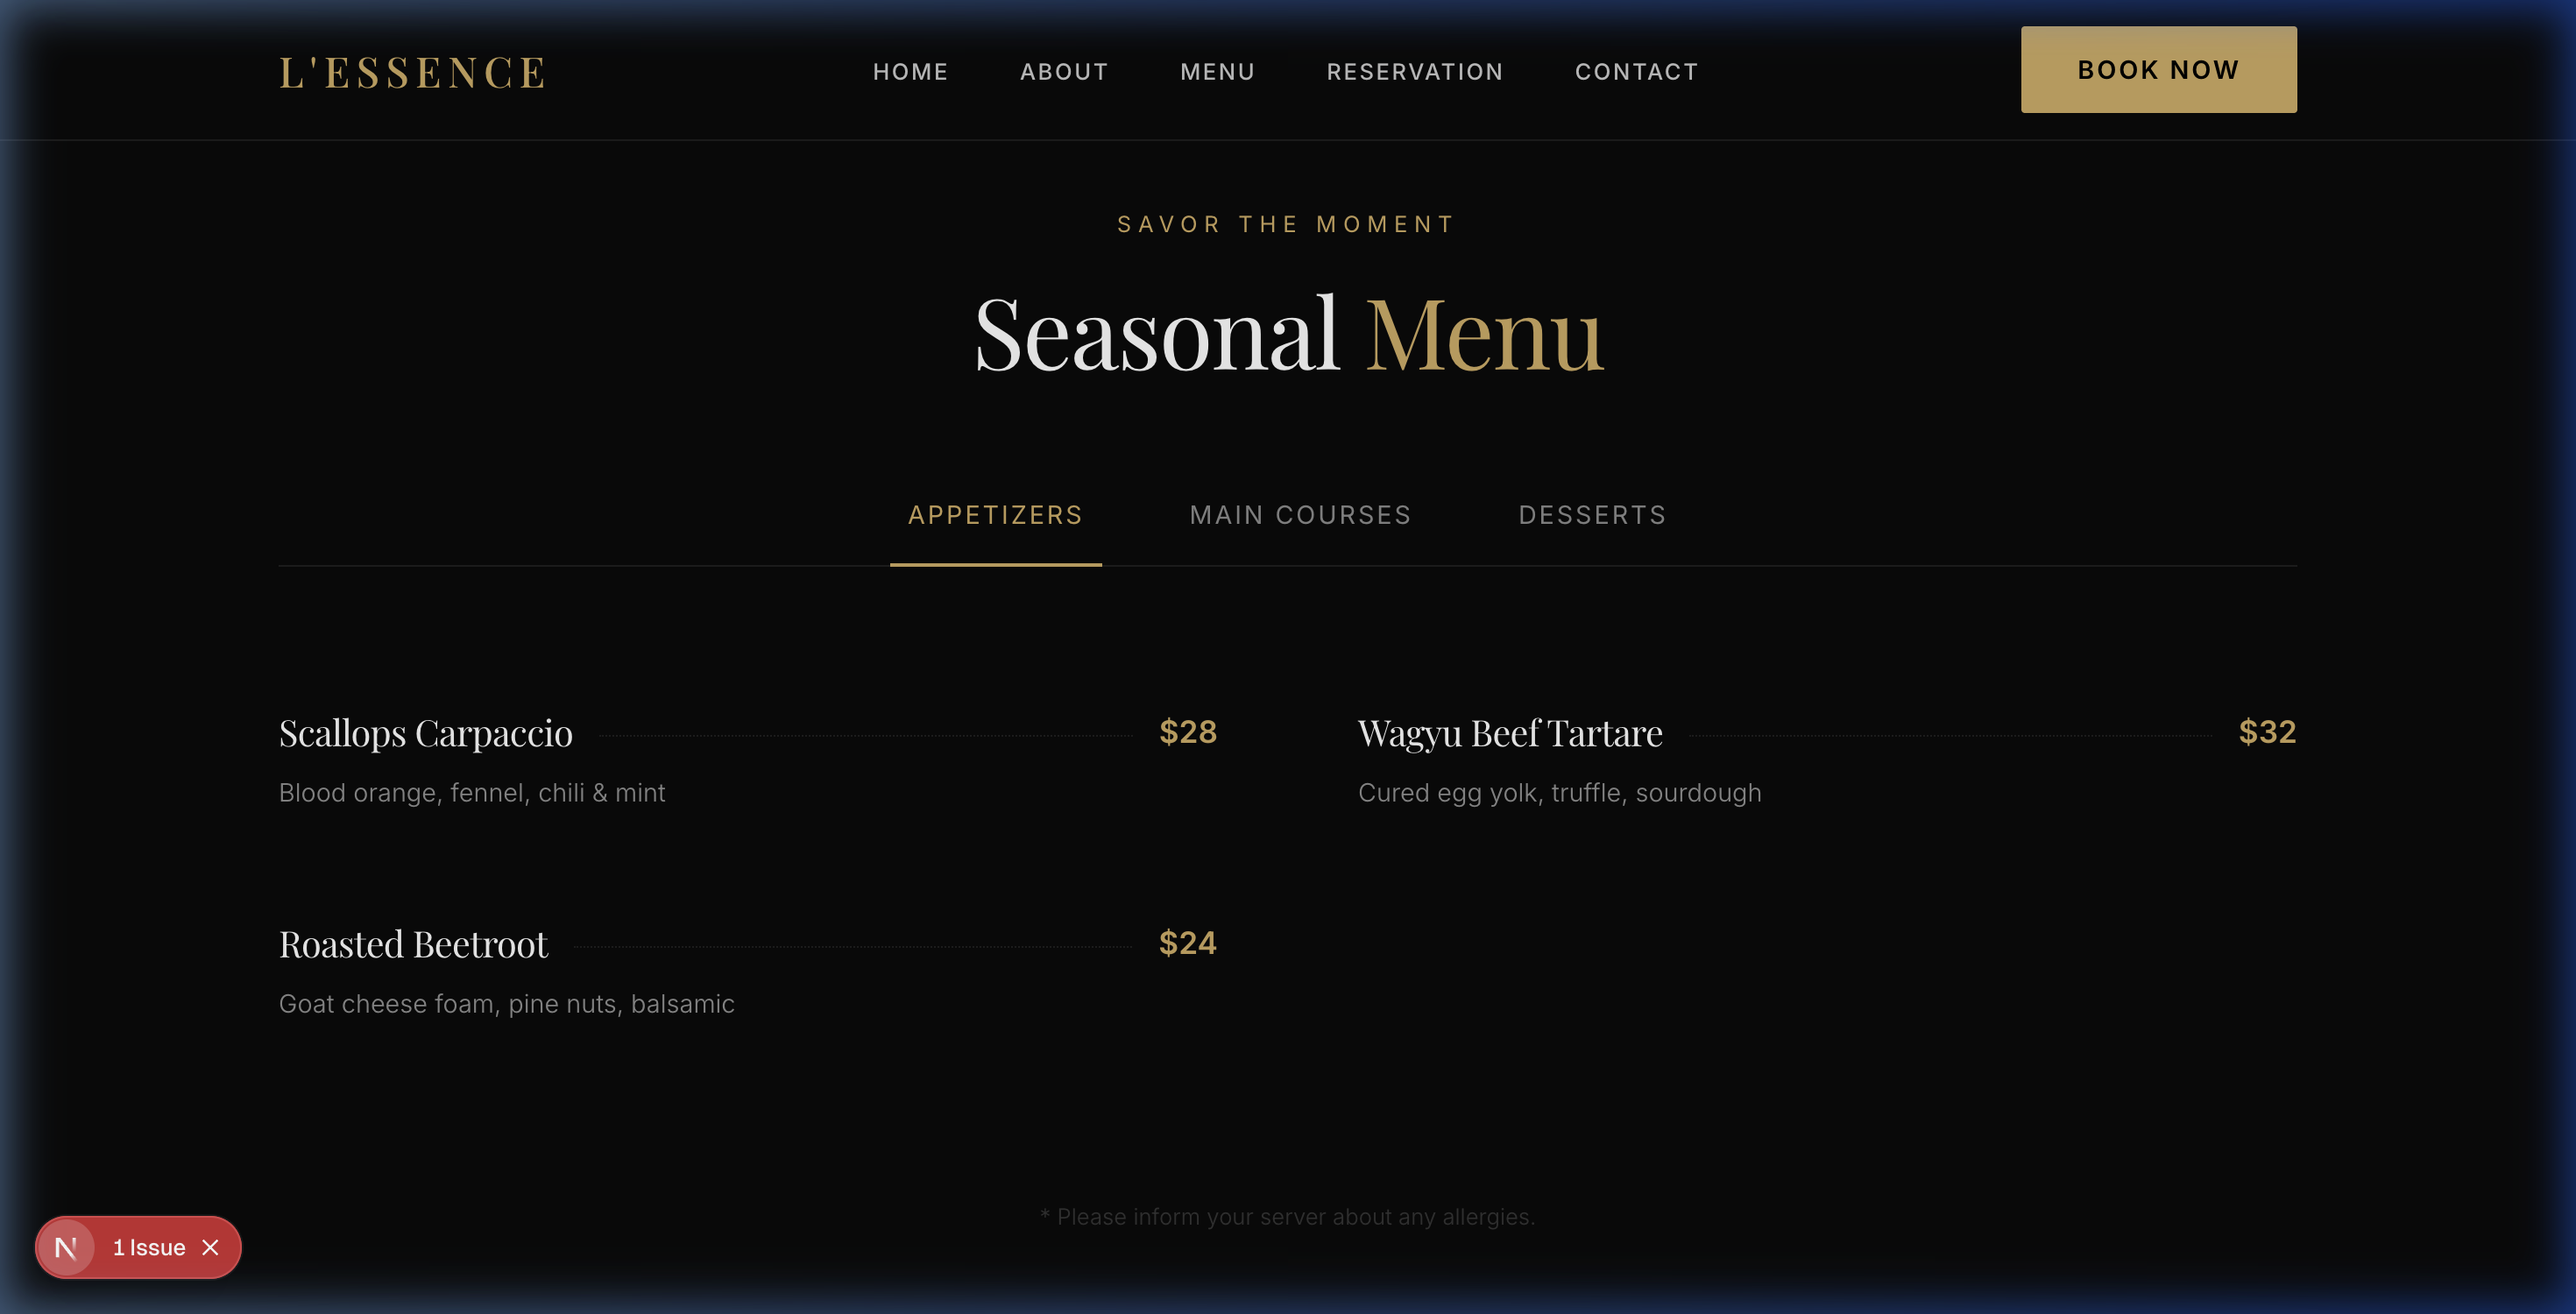
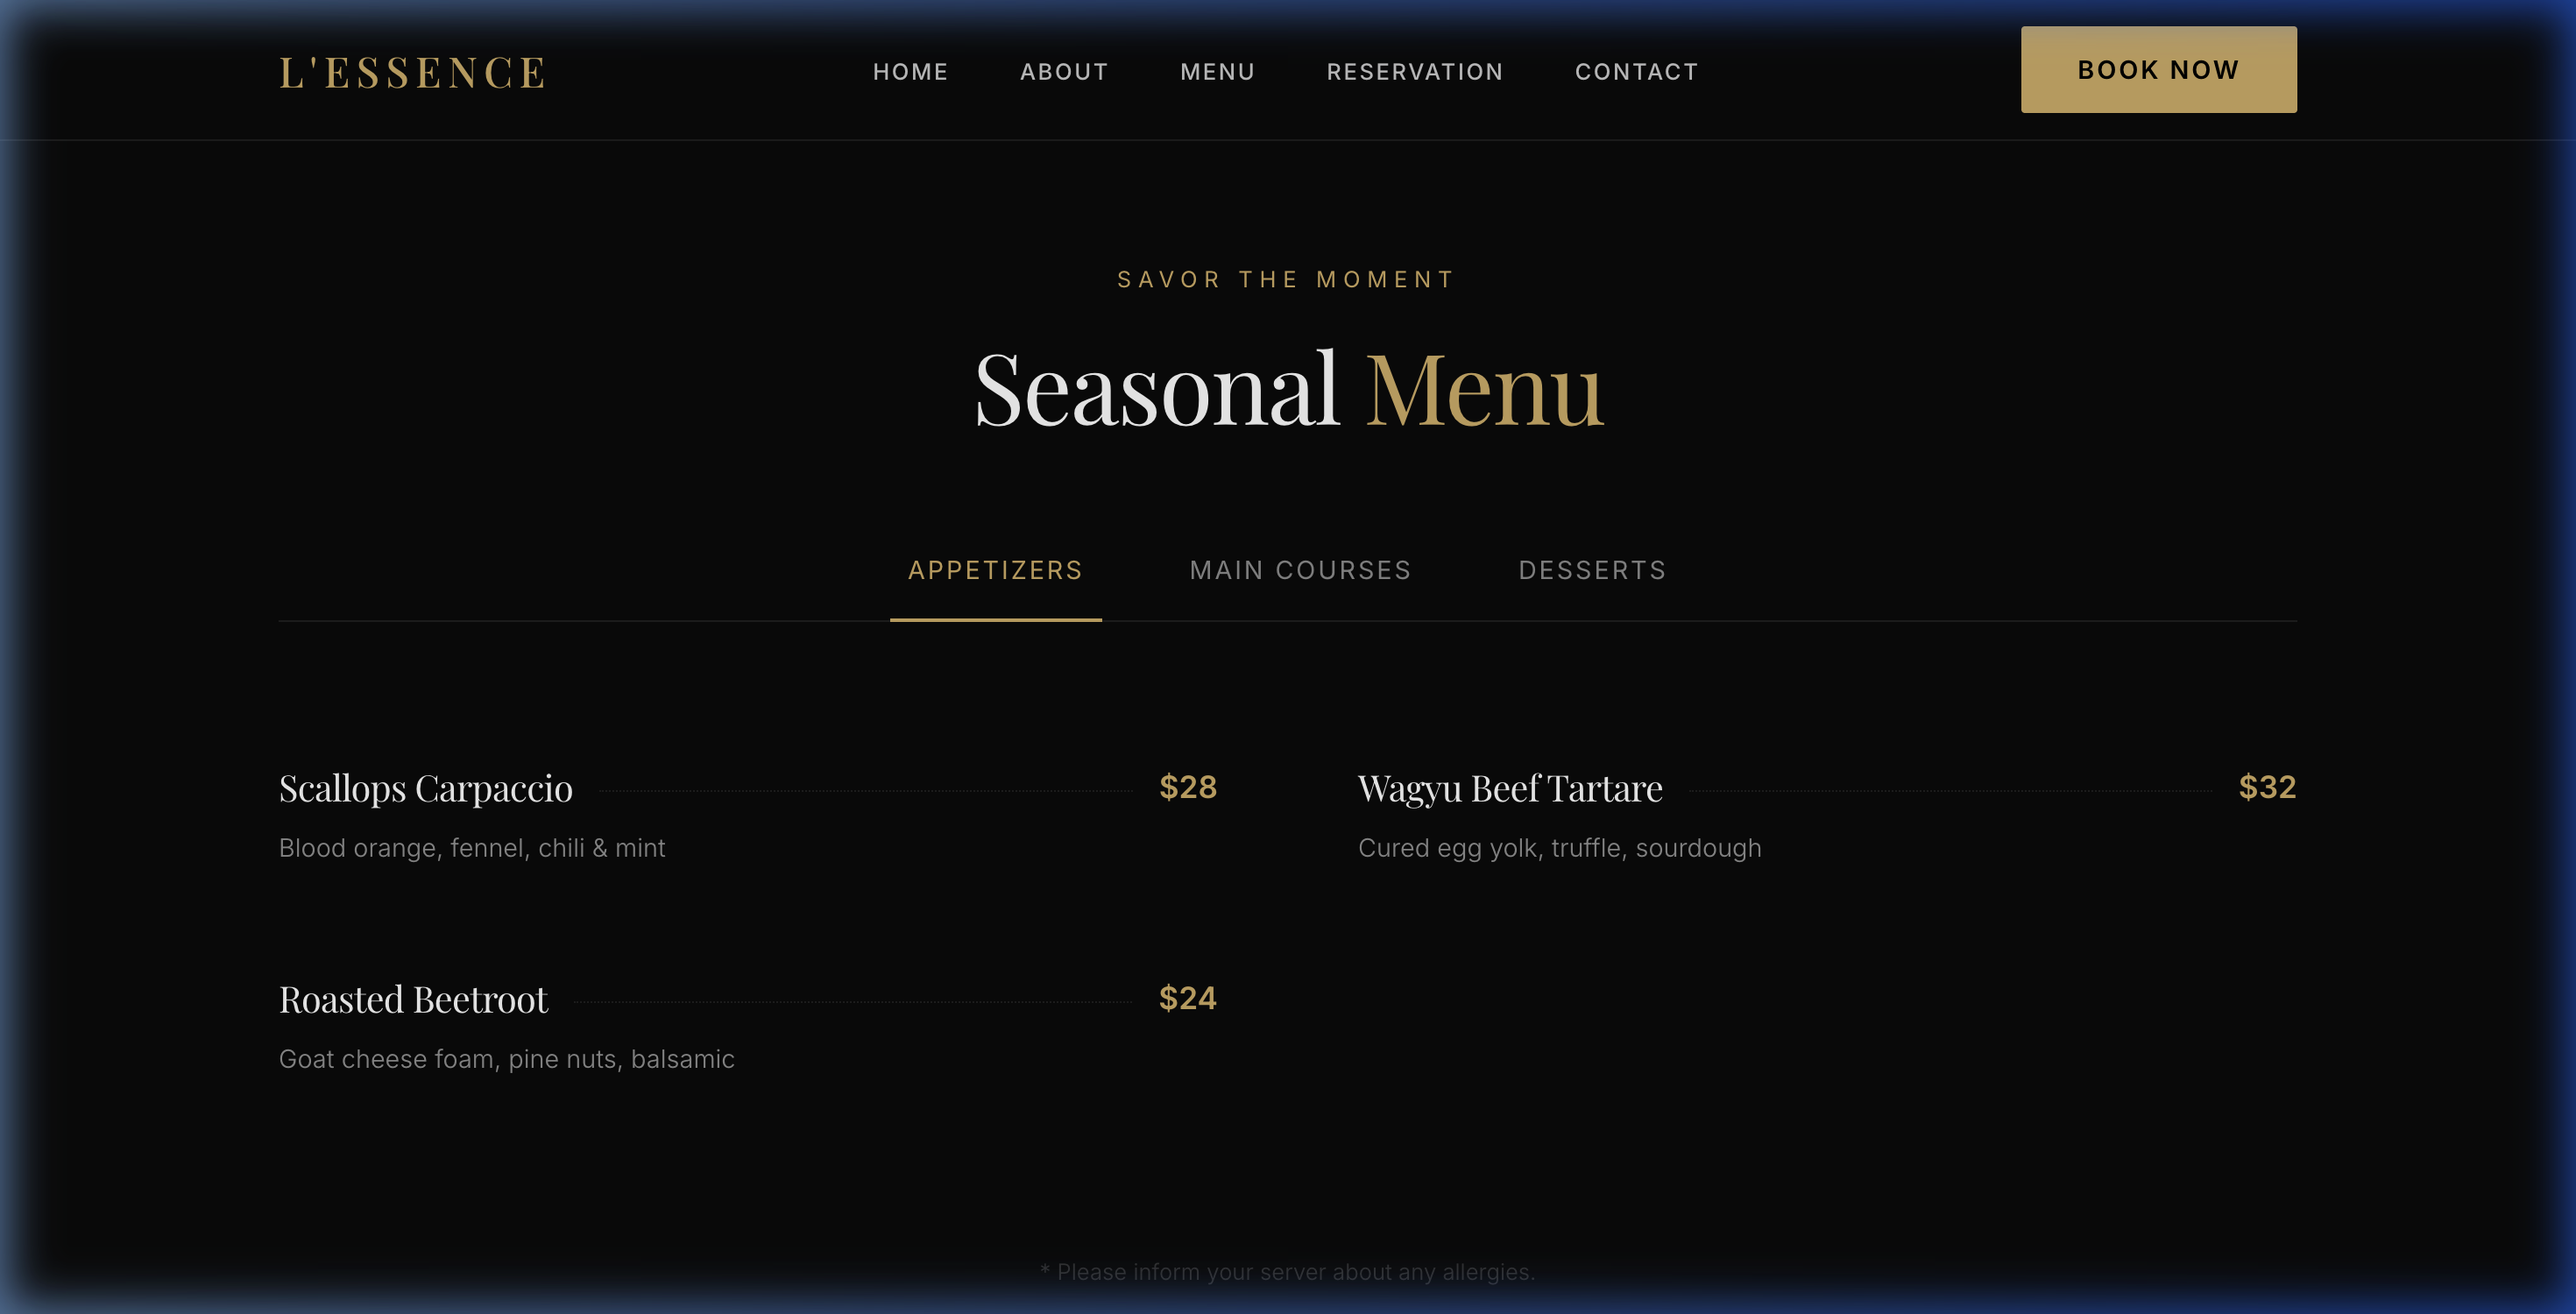
update

diff --git a/app/globals.css b/app/globals.css
@@ -123,3 +123,13 @@ button {
     --section-padding: 80px 0;
   }
 }
+
+/* Hide Next.js Dev Indicator for cleaner screenshots */
+#nextjs-portal, [data-nextjs-toast-errors-parent], .nextjs-toast-errors-parent {
+  display: none !important;
+}
+
+/* Remove default focus outlines that cause "blue things" in screenshots */
+*:focus {
+  outline: none !important;
+}

diff --git a/README.md b/README.md
@@ -2,17 +2,36 @@
 
 A high-end, minimalist restaurant website template built with **Next.js 16**, **TypeScript**, and **Framer Motion**. Designed for a luxury portfolio with a focus on "Quiet Luxury" aesthetics, smooth animations, and a seamless user experience.
 
+---
+
+## 📸 Section Gallery
+
+### 1. Luxury Hero Section
+Experience the "Elevate Your Palate" landing with a cinematic dark-mode interior and elegant typography.
+
 ![Hero Showcase](./public/screenshots/hero.png)
 
-## ✨ Features
+### 2. Our Story (About)
+A minimalist storytelling section centered around culinary excellence and artisanal heritage.
 
-- **Luxury Hero Section**: Stunning visuals with parallax effects and elegant typography reveals.
-- **Interactive Seasonal Menu**: Smooth-tabbed interface for browsing Appetizers, Main Courses, and Desserts.
-- **Chef's Story**: A minimalist storytelling section featuring professional food photography.
-- **Glassmorphism Reservation System**: A sleek, modern booking form integrated with the site's dark aesthetic.
-- **Responsive Design**: Fully optimized for mobile, tablet, and desktop viewing.
+![About Showcase](./public/screenshots/about.png)
+
+### 3. Seasonal Menu
+A smooth-tabbed interactive menu showcasing Appetizers, Main Courses, and Desserts.
 
 ![Menu Showcase](./public/screenshots/menu.png)
+
+### 4. Precision Reservation
+A glassmorphism-styled booking system for a seamless guest experience.
+
+![Reservation Showcase](./public/screenshots/reservation.png)
+
+### 5. Signature Branding (Footer)
+A modern, dark-themed footer with all your contact and location details.
+
+![Footer Showcase](./public/screenshots/footer.png)
+
+---
 
 ## 🛠 Tech Stack
 
@@ -39,10 +58,5 @@ npm run dev
 
 Open [http://localhost:3000](http://localhost:3000) with your browser to see the result.
 
-## 📸 Signature Dishes
-
-![Dish](./public/dish.png)
-
 ---
-
 Developed with ❤ as a portfolio project.
